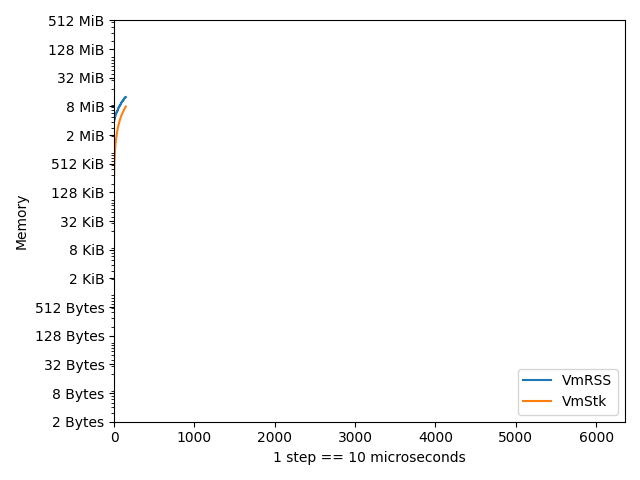
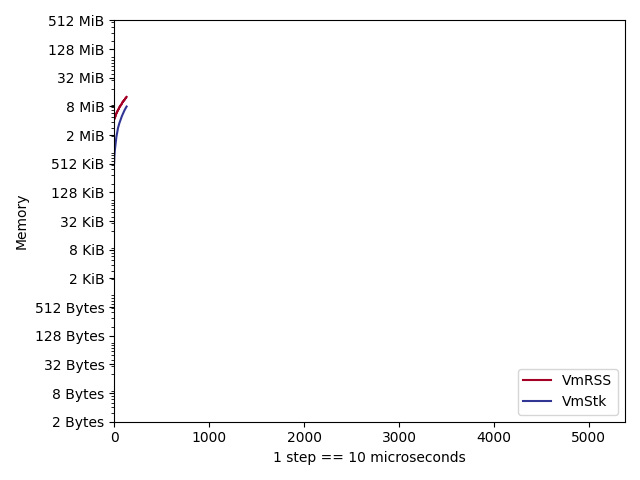
Readme

diff --git a/render.py b/render.py
@@ -14,7 +14,7 @@ def bytes_major_formatter(x, pos):
 
 
 def render(df: pandas.DataFrame, out: os.PathLike, max_power_of_two: int, max_step: int):
-    plot = df.plot(x="Step", y=["VmRSS", "VmStk"])
+    plot = df.plot(x="Step", y=["VmRSS", "VmStk"], colormap='RdYlBu')
 
     plot.set_ylabel('Memory')
     plot.set_yscale("log")

diff --git a/README.md b/README.md
@@ -1,0 +1,38 @@
+# stackoverflow-go
+
+A small project helping to investigate stack overflow and out-of-memory errors in Go and Cgo.
+
+## Steps to reproduce
+
+Run investigation:
+```bash
+make investigation
+(...)
+./script.sh: line 5:     7 Killed                  ./stackoverflow-go -test.run=StackOverflowGo
+./script.sh: line 6:    20 Segmentation fault      (core dumped) ./stackoverflow-go -test.run=StackOverflowCgo
+```
+After that look at kernel logs:
+```
+journalctl -k | grep stackoverflow
+Jul 13 11:45:20 rt.pln.pls.rix.lv.rdmz.retn.net kernel: stackoverflow-g invoked oom-killer: gfp_mask=0xcc0(GFP_KERNEL), order=0, oom_score_adj=0
+Jul 13 11:45:20 rt.pln.pls.rix.lv.rdmz.retn.net kernel: CPU: 1 PID: 72423 Comm: stackoverflow-g Not tainted 5.18.7-200.fc36.x86_64 #1
+Jul 13 11:45:20 rt.pln.pls.rix.lv.rdmz.retn.net kernel: [  72184]     0 72184   669223    65551  1593344    64989             0 stackoverflow-g
+Jul 13 11:45:20 rt.pln.pls.rix.lv.rdmz.retn.net kernel: oom-kill:constraint=CONSTRAINT_MEMCG,nodemask=(null),cpuset=docker-b1d583ef4ec7a04cda0c0e9a6804d0934bf00d88b84141570cf8251e808f1905.scope,mems_allowed=0,oom_memcg=/system.slice/docker-b1d583ef4ec7a04cda0c0e9a6804d0934bf00d88b84141570cf8251e808f1905.scope,task_memcg=/system.slice/docker-b1d583ef4ec7a04cda0c0e9a6804d0934bf00d88b84141570cf8251e808f1905.scope,task=stackoverflow-g,pid=72184,uid=0
+Jul 13 11:45:20 rt.pln.pls.rix.lv.rdmz.retn.net kernel: Memory cgroup out of memory: Killed process 72184 (stackoverflow-g) total-vm:2676892kB, anon-rss:259204kB, file-rss:3000kB, shmem-rss:0kB, UID:0 pgtables:1556kB oom_score_adj:0
+```
+
+After that, have a look at `/tmp/stackoverflow-go` of your host machine.
+
+## Results
+
+### Go
+
+Endless recursion in Go results in a heap growth. Process finally gets killed by OOM Killer as it reaches RSS Limit (`256m`) set for the Docker container.
+
+![Go](./docs/go.png)
+
+### Cgo
+
+Endless recursion in Cgo (and C) causes stack overflow error and segmentation fault since it reaches Linux stack size limit, which is `8Mb` by default (refer to `ulimit -a`).
+
+![Go](./docs/cgo.png)
